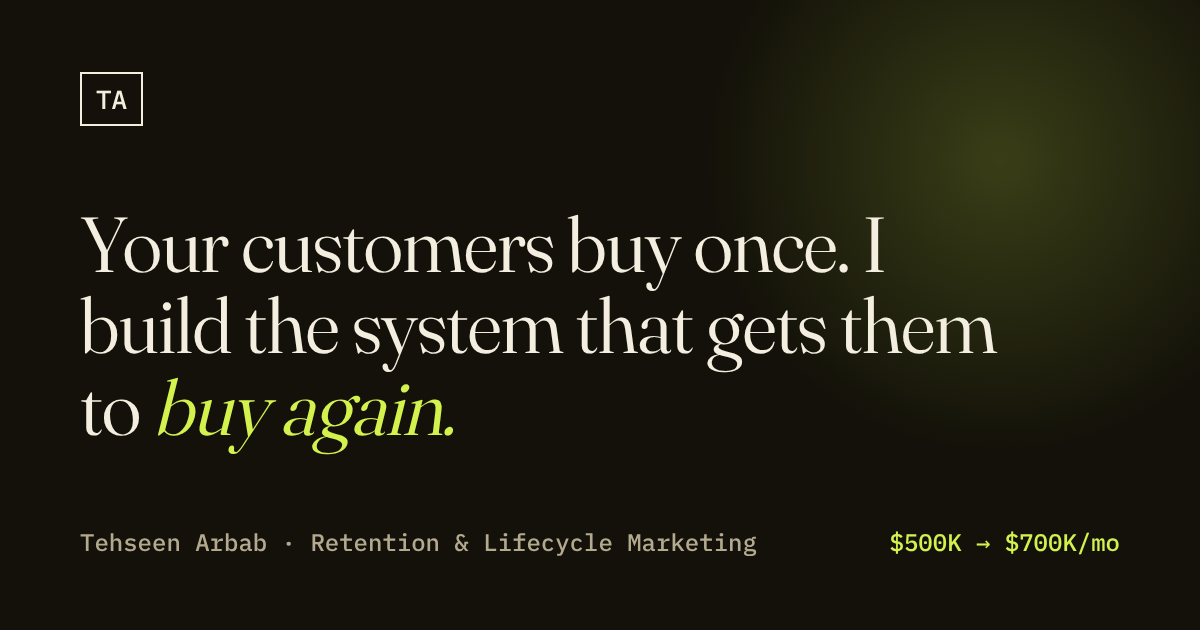
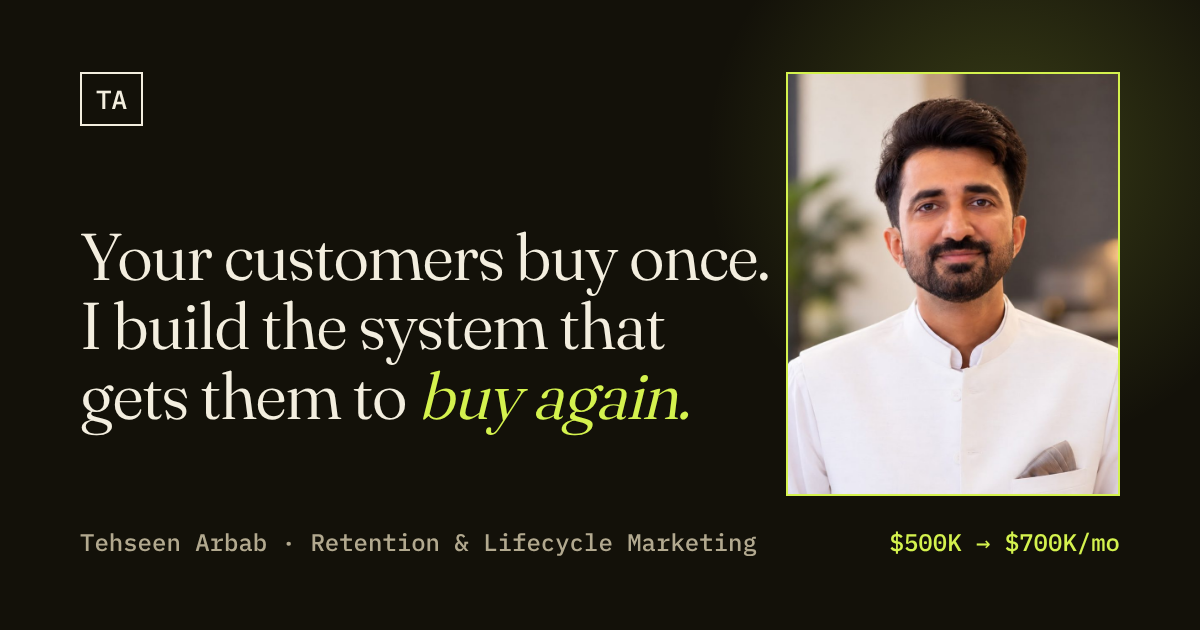
Add photo and graphic case studies
Use the portrait in the hero, About section and share image. Rebuild
case studies as rows with before/after bar charts and a process
diagram for the Clearer engagement.

Claude-Session: https://claude.ai/code/session_012q7PZqgG6K6kKBLtpLiC1S

Changed region(s): [[0.0617, 0.0905, 0.9558, 0.8143]]

diff --git a/index.html b/index.html
@@ -251,6 +251,41 @@ img{ max-width: 100%; display: block; }
 .case p{ margin: 0; color: var(--paper-dim); font-size: .98rem; }
 .case-more{ margin-top: auto; padding-top: 22px; }
 
+
+/* case-study rows with graphics */
+.cs{ display: grid; grid-template-columns: minmax(0,1.1fr) minmax(0,.9fr); gap: clamp(26px, 5vw, 72px); align-items: center; padding: 48px 0; border-top: 1px solid var(--line); }
+.cs:last-of-type{ border-bottom: 1px solid var(--line); }
+.cs.flip .cs-text{ order: 2; }
+.cs h3{ font-weight: 340; font-size: clamp(1.6rem, 3vw, 2.3rem); line-height: 1.12; letter-spacing: -.015em; margin: 0 0 16px; }
+.cs p{ margin: 0 0 20px; color: var(--paper-dim); font-size: 1.04rem; max-width: 52ch; }
+.chips{ list-style: none; margin: 0; padding: 0; display: flex; flex-wrap: wrap; gap: 8px; font-size: .72rem; }
+.chips li{ border: 1px solid var(--line-2); padding: 6px 11px; color: var(--paper-dim); }
+.cs-viz{ margin: 0; position: relative; background: var(--card); border: 1px solid var(--line); padding: 32px 30px 20px; background-image: linear-gradient(var(--line) 1px, transparent 1px); background-size: 100% 46px; background-position: 0 14px; --accent: var(--lime); }
+.cs-viz.alt{ --accent: var(--rust); }
+.cs-viz figcaption{ font-size: .7rem; color: var(--paper-dim); margin-top: 16px; padding-top: 14px; border-top: 1px solid var(--line); }
+.bars{ display: flex; align-items: flex-end; justify-content: center; gap: clamp(26px, 6vw, 60px); height: 230px; }
+.bar-col{ flex: 0 1 120px; height: 100%; display: flex; flex-direction: column; justify-content: flex-end; align-items: stretch; text-align: center; }
+.bar{ height: 0; background: repeating-linear-gradient(135deg, rgba(243,238,223,.2) 0 3px, rgba(243,238,223,.07) 3px 9px); border: 1px solid var(--line-2); border-bottom: 0; transition: height 1.1s cubic-bezier(.2,.7,.2,1) .25s; }
+.bar.hi{ background: var(--accent); border-color: var(--accent); box-shadow: 0 0 36px -6px var(--accent); transition-delay: .55s; }
+.in .bar, .no-js .bar{ height: var(--h); }
+.bar-val{ font-size: 1.05rem; margin-bottom: 10px; }
+.bar-lbl{ font-size: .72rem; color: var(--paper-dim); padding-top: 12px; }
+.badge{ position: absolute; top: -16px; right: 18px; background: var(--accent); color: var(--ink); font-size: 1.1rem; padding: 7px 13px; transform: rotate(3deg); }
+.flow{ list-style: none; margin: 8px 0 0; padding: 0; display: grid; gap: 0; }
+.flow li{ position: relative; display: grid; grid-template-columns: 38px 1fr; column-gap: 12px; align-items: baseline; padding: 15px 16px; border: 1px solid var(--line-2); background: var(--ink); }
+.flow li + li{ margin-top: 22px; }
+.flow li + li::before{ content: "↓"; position: absolute; top: -21px; left: 22px; color: var(--paper-dim); font-size: .95rem; }
+.flow .fn{ color: var(--paper-dim); font-size: .8rem; grid-row: span 2; }
+.flow b{ font-weight: 500; font-size: .95rem; }
+.flow small{ color: var(--paper-dim); font-size: .72rem; }
+.flow li.win{ border-color: var(--lime); box-shadow: 0 0 30px -10px var(--lime); }
+.flow li.win b{ color: var(--lime); }
+.trend{ width: 100%; height: 62px; margin-top: 22px; color: var(--lime); display: block; overflow: visible; }
+@media (max-width: 980px){
+  .cs{ grid-template-columns: 1fr; padding: 38px 0; }
+  .cs.flip .cs-text{ order: 0; }
+}
+
 /* about */
 .about-grid{ display: grid; grid-template-columns: minmax(0,.8fr) minmax(0,1.2fr); gap: clamp(30px, 6vw, 90px); align-items: start; }
 .about-portrait{ aspect-ratio: 1; max-width: 360px; border: 1px solid var(--line-2); overflow: hidden; position: relative; background: var(--card); }
@@ -351,6 +386,7 @@ img{ max-width: 100%; display: block; }
 }
 </style>
 <script>document.documentElement.className += " js";</script>
+<noscript><style>.bar{height:var(--h)}</style></noscript>
 </head>
 <body>
 
@@ -492,26 +528,62 @@ img{ max-width: 100%; display: block; }
       <span class="kicker mono reveal">04 / Results</span>
       <h2 class="section-head reveal">Case studies</h2>
       <p class="section-lede reveal">Real brands, real numbers — retention work that shows up in revenue.</p>
-      <div class="cases-grid">
-        <article class="case reveal">
-          <span class="case-tag mono lime">Retention lead</span>
-          <h3>DTC supplement brand</h3>
-          <span class="case-metric mono lime">$500K → $700K/mo</span>
-          <p>Owned the retention program and grew the monthly revenue run-rate from roughly $500K to $700K through flow rebuilds, segmentation and reorder-timed campaigns.</p>
-        </article>
-        <article class="case reveal">
-          <span class="case-tag mono rust">Retention &amp; lifecycle</span>
-          <h3>US coffee brand</h3>
-          <span class="case-metric mono rust">$15K → $30K</span>
-          <p>Rebuilt the lifecycle program and helped scale revenue from $15K to $30K, applying the same reorder-timing logic used for consumable products.</p>
-        </article>
-        <article class="case reveal">
-          <span class="case-tag mono lime">Retention strategy</span>
-          <h3>Clearer</h3>
-          <span class="case-metric mono none">Lower churn, higher retention</span>
-          <p>Started with a full audit of Clearer's Klaviyo setup, then went beyond it to rebuild the lifecycle strategy itself — increasing retention and bringing churn down.</p>
-        </article>
-      </div>
+
+      <article class="cs reveal">
+        <div class="cs-text">
+          <span class="case-tag mono lime">Retention lead · DTC supplements</span>
+          <h3>From $500K to $700K a month</h3>
+          <p>Owned the retention program for a direct-to-consumer supplement brand and grew the monthly revenue run-rate by roughly 40% through flow rebuilds, segmentation and reorder-timed campaigns.</p>
+          <ul class="chips mono"><li>Flow rebuilds</li><li>Segmentation</li><li>Reorder-timed campaigns</li></ul>
+        </div>
+        <figure class="cs-viz" aria-label="Bar chart: monthly revenue run-rate grew from about $500K to about $700K">
+          <div class="bars">
+            <div class="bar-col"><span class="bar-val mono">~$500K</span><div class="bar" style="--h:71%"></div><span class="bar-lbl mono">Before</span></div>
+            <div class="bar-col"><span class="bar-val mono lime">~$700K</span><div class="bar hi" style="--h:100%"></div><span class="bar-lbl mono">After</span></div>
+          </div>
+          <span class="badge mono">+40%</span>
+          <figcaption class="mono">Monthly revenue run-rate</figcaption>
+        </figure>
+      </article>
+
+      <article class="cs flip reveal">
+        <div class="cs-text">
+          <span class="case-tag mono rust">Retention &amp; lifecycle · US coffee</span>
+          <h3>Revenue doubled, $15K to $30K</h3>
+          <p>Rebuilt the lifecycle program for a US-based coffee brand and helped scale revenue from $15K to $30K, applying the same reorder-timing logic used for consumable products.</p>
+          <ul class="chips mono"><li>Lifecycle rebuild</li><li>Reorder timing</li><li>Consumable-product logic</li></ul>
+        </div>
+        <figure class="cs-viz alt" aria-label="Bar chart: revenue doubled from $15K to $30K">
+          <div class="bars">
+            <div class="bar-col"><span class="bar-val mono">$15K</span><div class="bar" style="--h:50%"></div><span class="bar-lbl mono">Before</span></div>
+            <div class="bar-col"><span class="bar-val mono rust">$30K</span><div class="bar hi" style="--h:100%"></div><span class="bar-lbl mono">After</span></div>
+          </div>
+          <span class="badge mono">2×</span>
+          <figcaption class="mono">Revenue during the engagement</figcaption>
+        </figure>
+      </article>
+
+      <article class="cs reveal">
+        <div class="cs-text">
+          <span class="case-tag mono lime">Retention strategy · Clearer</span>
+          <h3>Audit first, then a rebuilt lifecycle</h3>
+          <p>Started with a full audit of Clearer's Klaviyo setup, then went beyond it to rebuild the lifecycle strategy itself — increasing customer retention and bringing the churn rate down.</p>
+          <ul class="chips mono"><li>Klaviyo audit</li><li>Lifecycle strategy</li><li>Churn reduction</li></ul>
+        </div>
+        <figure class="cs-viz" aria-label="Process diagram: Klaviyo audit, lifecycle rebuild, higher retention and lower churn">
+          <ol class="flow mono">
+            <li><span class="fn">01</span><b>Klaviyo audit</b><small>Find the gaps</small></li>
+            <li><span class="fn">02</span><b>Lifecycle rebuild</b><small>New strategy</small></li>
+            <li class="win"><span class="fn">03</span><b>Retention up</b><small>Churn down</small></li>
+          </ol>
+          <svg class="trend" viewBox="0 0 300 70" preserveAspectRatio="none" aria-hidden="true">
+            <path d="M0 8 C60 10 90 20 140 38 S240 62 300 64" fill="none" stroke="currentColor" stroke-width="2.5" stroke-linecap="round"/>
+            <path d="M0 8 C60 10 90 20 140 38 S240 62 300 64 L300 70 L0 70Z" fill="currentColor" opacity=".12"/>
+          </svg>
+          <figcaption class="mono">Illustrative — churn trending down</figcaption>
+        </figure>
+      </article>
+
       <div class="section-cta reveal"><a class="btn btn-primary" href="#contact">Want results like these? Start with a free audit <span class="arr">→</span></a></div>
     </div>
   </section>
@@ -522,7 +594,7 @@ img{ max-width: 100%; display: block; }
       <div class="reveal">
         <div class="about-portrait">
           <div class="monogram" aria-hidden="true">TA</div>
-          <img src="tehseen.jpg" alt="Portrait of Tehseen Arbab" width="720" height="720" loading="lazy" onerror="this.remove()">
+          <img src="tehseen-square.jpg" alt="Portrait of Tehseen Arbab" width="720" height="720" loading="lazy" onerror="this.remove()">
         </div>
       </div>
       <div>

diff --git a/README.md b/README.md
@@ -29,9 +29,8 @@ class="case">` blocks in the `#cases` section — copy one to add another.
 
 ## Photo, leads and SEO files
 
-- **Photo:** upload your headshot to the repo root as `tehseen.jpg` (square or 4:5
-  portrait, under ~300 KB). It shows in the hero and About sections automatically;
-  until then a "TA" monogram is displayed.
+- **Photo:** `tehseen.jpg` (hero) and `tehseen-square.jpg` (About) are in the repo root;
+  replace them with new crops (4:5 and square, under ~300 KB) to change the photo.
 - **Lead form:** by default it opens an email to contact@tehseenarbab.com. To receive
   leads without an email app, create a Formspree / Web3Forms form and paste its URL
   into `FORM_ENDPOINT` at the bottom of `index.html`.
